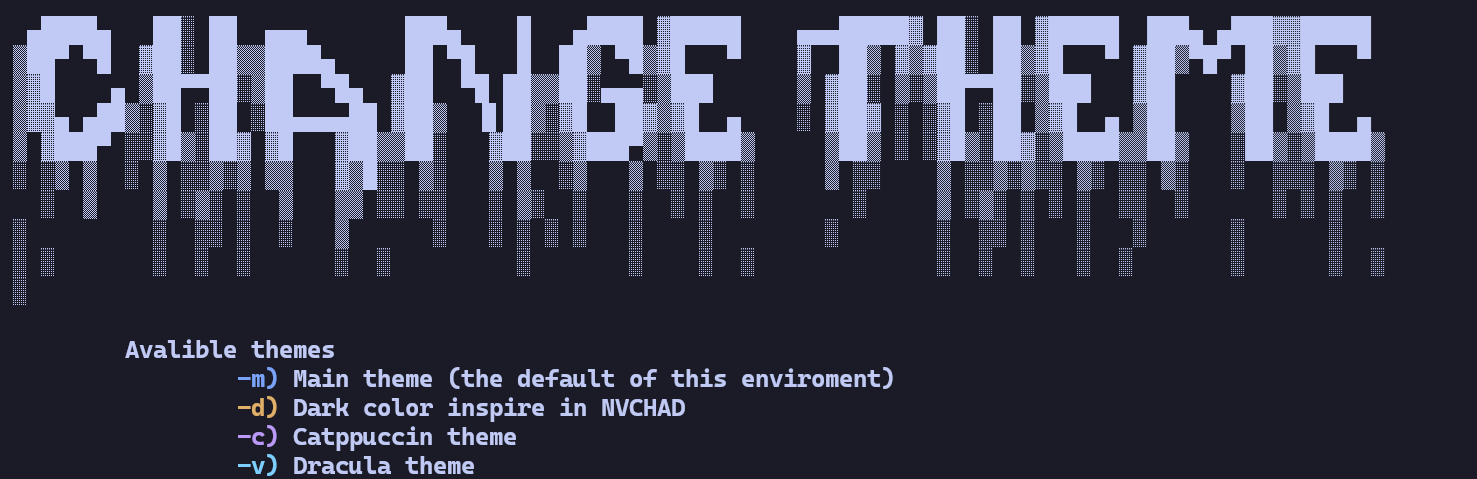
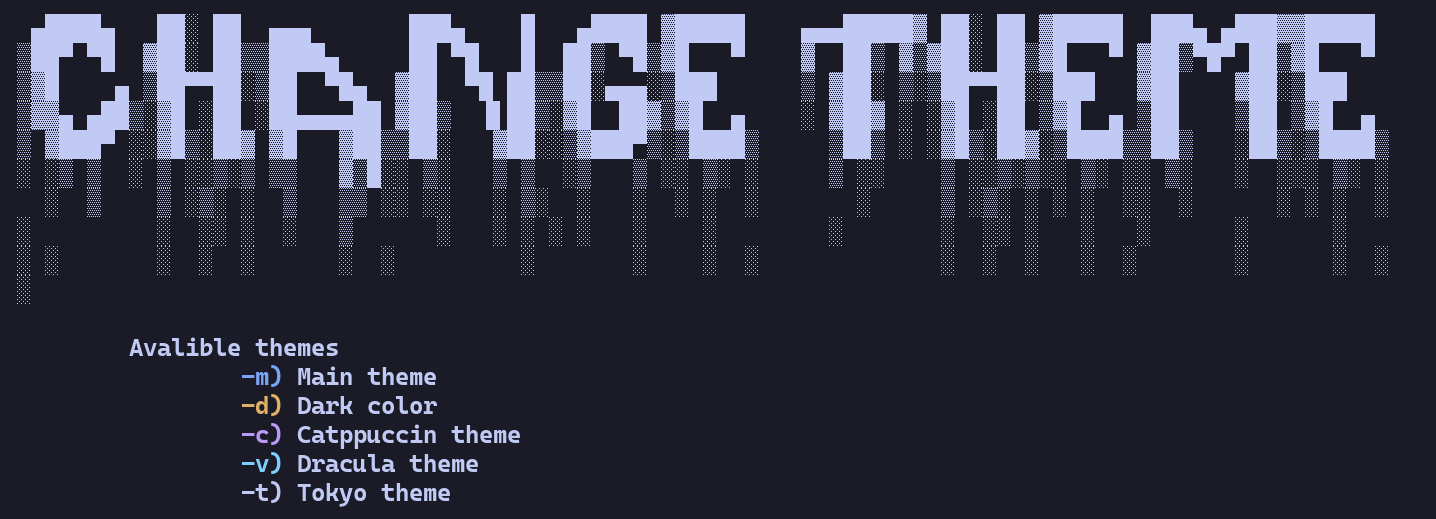
Update the README.md

diff --git a/README.md b/README.md
@@ -1,30 +1,35 @@
 # **Pentesting Environment on Linux**
 
+![](https://media2.giphy.com/media/v1.Y2lkPTc5MGI3NjExY3RyMWM5MDR5dGl5NG4ydDVndWI2MGZtbmY5Zmwzbm9zbnV0aHlmbyZlcD12MV9pbnRlcm5hbF9naWZfYnlfaWQmY3Q9Zw/B4dt6rXq6nABilHTYM/giphy.webp)
+
 This pentesting environment is specifically configured for Linux and utilizes the following tools and configurations:
 
-| Window Manager | bspwm |
-| --- | --- |
-| Keybinding Manager  | sxhkd |
-| Terminal | kitty |
-| Terminal theme | powerlevel10k |
-| File Viewer | bat |
-| Directory Listing | lsd |
+***Window Manager ≡ [bspwm](https://github.com/baskerville/bspwm)*** 
+
+##### *Other programs/utilities used on the enviroment*
+| Keybinding Manager        | sxhkd             |
+| Terminal                  | kitty             |
+| Terminal theme            | powerlevel10k     |
+| File Viewer               | bat               |
+| Directory Listing         | lsd               |
 
 ## Images
 
 ---
 
-![KaliPreview](https://github.com/Ares5468656f73/HACKBSPWM/blob/main/Preview/KaliUpdatedPreview.png)
+![Preview-1](https://github.com/Ares5468656f73/HACKBSPWM/blob/main/preview/MainTheme.png)
 
-![ArchPreview](https://github.com/Ares5468656f73/HACKBSPWM/blob/main/Preview/ArchUpdatedPreview.png)
+![Preview-2](https://github.com/Ares5468656f73/HACKBSPWM/blob/main/preview/CatppuccinTheme.png)
 
-![ParrotPreview](https://github.com/Ares5468656f73/HACKBSPWM/blob/main/Preview/ParrotUpdatedPreview.png)
+![Preview-3](https://github.com/Ares5468656f73/HACKBSPWM/blob/main/preview/DraculaTheme.png)
 
-![DebianPreview](https://github.com/Ares5468656f73/HACKBSPWM/blob/main/Preview/DebianUpdatedPreview.png)
+![Preview-4](https://github.com/Ares5468656f73/HACKBSPWM/blob/main/preview/DarkTheme.png)
+
+![Preview-5](https://github.com/Ares5468656f73/HACKBSPWM/blob/main/preview/TokyoTheme)
 
 ## **Installation**
 ---
-To automatically configure the pentesting environment, use the [`installer.sh`](https://github.com/Ares5468656f73/HACKBSPWM/blob/main/installer.sh) script included in this repository.
+To automatically configure the pentesting environment, use the [`installer.sh`](https://github.com/Ares5468656f73/HACKBSPWM/blob/main/setup.sh) script included in this repository.
 
 ### **Clone the Repository**
 
@@ -35,12 +40,15 @@ git clone https://github.com/Ares5468656f73/HACKBSPWM.git
 cd HACKBSPWM
 ```
 
-Run the **installer.sh** script to install and configure all the necessary tools.
+Run the **setup.sh** script to install and configure all the necessary tools.
 
 ```bash
-chmod +x installer.sh
+chmod +x setup.sh
 ./installer.sh
 ```
+##### *You will see this*
+![FirstPart](https://github.com/Ares5468656f73/HACKBSPWM/blob/main/preview/SetupPreview-1.png)
+![SecondPart](https://github.com/Ares5468656f73/HACKBSPWM/blob/main/preview/SetupPreview-2.png)
 
 After the script has finished, log out and log back in to apply all changes.
 
@@ -51,15 +59,23 @@ After the script has finished, log out and log back in to apply all changes.
 
 To change the theme for your polybar and your kitty and also the background you only need to execute de [`changeTheme.sh`](https://github.com/Ares5468656f73/HACKBSPWM/blob/main/Scripts/changeTheme.sh) script. You will see this:
 
-![ChangeThemePreview](https://github.com/Ares5468656f73/HACKBSPWM/blob/main/Preview/ChangeThemePreview.png)
+![ChangeThemePreview](https://github.com/Ares5468656f73/HACKBSPWM/blob/main/preview/ChangeThemePreview.png)
 
-The only thing yout need to do if put a parameter, for example if you want to chenge to Catppuccin theme you run:
+There are ***5*** available themes, thanks to 
 
-```bash
-./changeTheme.sh -c
-```
+|[S4vitar](https://www.youtube.com/@s4vitar)|For main theme color and also for introduce me in cybersecurity world. Thanks S4vi por que se tensó|
+|[Catppuccin](https://catppuccin.com/)|Obviously for the catppuccin theme|
+|[Dracula](https://draculatheme.com/)|Obviously for the dracula theme|
+|[Dark](https://archcraft.io/)|I took the colors of this distro which i used to use|
+|[Tokyo](https://github.com/rxyhn/yoru)|This mf inspired me to create my own enviroment|
 
-To get the changes in your kitty you need to close and open a new terminal, after you log out, reboot or shutdown the machine the theme will apply
+## Rofi
+---
+![Rofi theme](https://github.com/Ares5468656f73/HACKBSPWM/blob/main/preview/)
+
+The original `rofi` theme was from [adi1090x](https://github.com/adi1090x/rofi/tree/master)
+
+Image and colors were from *me* (It`s fucking awesome)
 
 >[!IMPORTANT]
 >## **Tool Details**
@@ -88,17 +104,7 @@ To get the changes in your kitty you need to close and open a new terminal, afte
 >
 >lsd is a modern alternative to ls with a beautiful colorized output.
 
-## **Credits**
-
----
-
-The enviroment was configured by me :)
-
-The `kitty` and `polybar` colors are from [s4vitar](https://www.youtube.com/@s4vitar), [dracula](https://draculatheme.com/), [catppuccin](https://catppuccin.com/), [nvchad](https://nvchad.com/)
-
-`Rofi` theme was for: [adi1090x](https://github.com/adi1090x/rofi/tree/master)
-
-Icons and fonts were from [HackNerdFonts](https://www.nerdfonts.com/)
+Fonts were from [HackNerdFonts](https://www.nerdfonts.com/), [Monocraf](https://github.com/IdreesInc/Monocraft) and [Google](https://fonts.google.com/noto/specimen/Noto+Serif+TC)
 
 ## **License**
 
@@ -110,4 +116,5 @@ This project is licensed under the MIT License. See the LICENSE file for details
 
 [Ares](https://github.com/Ares5468656f73/)
 
-This `README.md` file provides comprehensive information about the pentesting environment, how to install it using the `installer.sh` script, a brief description of each tool included, and the contents of the `installer.sh` script itself.
+>[!WARNING]
+>This `README.md` file provides comprehensive information about the pentesting >environment, how to install it using the `setup.sh` script, a brief description >of each tool included, and the contents of the scrips.
